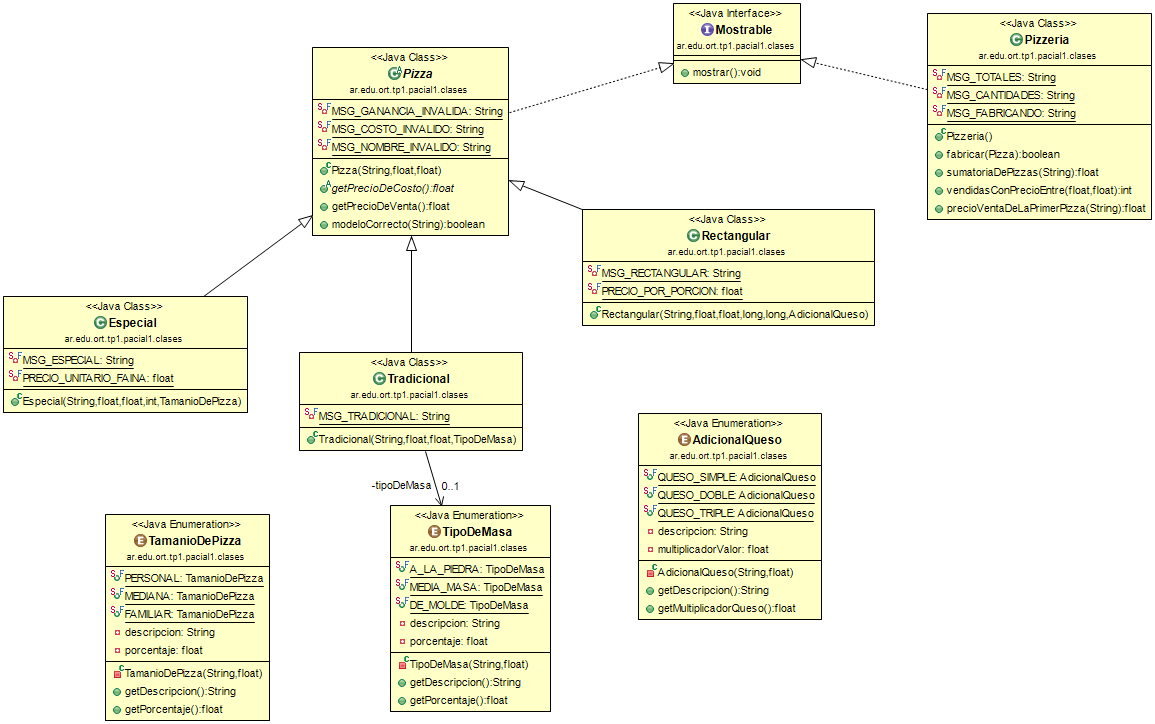
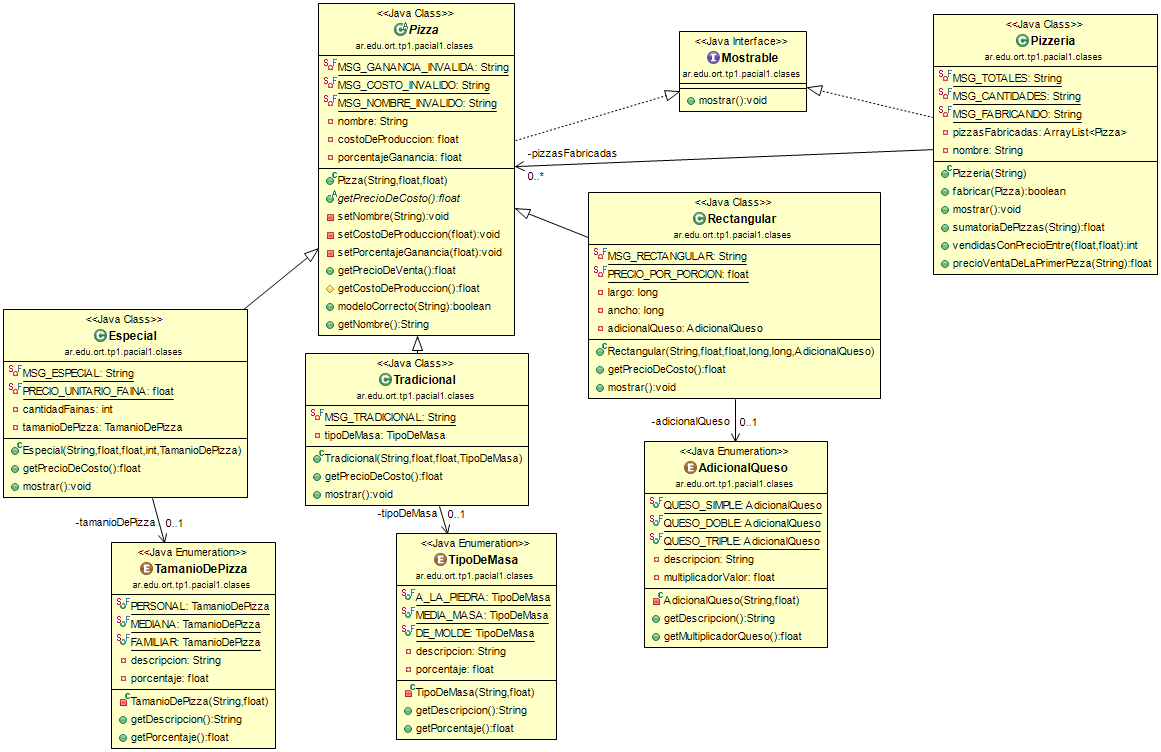
Resuelto (revisar lo charlado en clase)

Changed region(s): [[0.2494, 0.0, 0.9974, 1.0], [0.0, 0.395, 0.2494, 1.0], [0.561, 0.0, 0.7169, 0.1519]]

diff --git a/src/ar/edu/ort/tp1/pacial1/clases/Pizzeria.java b/src/ar/edu/ort/tp1/pacial1/clases/Pizzeria.java
@@ -8,12 +8,51 @@ public class Pizzeria implements Mostrable {
 	private static final String MSG_CANTIDADES = "Se han fabricado: %d Tradicionales, %d Especiales y %d Rectangulares\n";
 	private static final String MSG_FABRICANDO = "Fabricando la Pizza: ";
 	//TODO A completar
+	private ArrayList<Pizza> 	pizzasFabricadas;
+	private String 				nombre;
+
 	
+	public Pizzeria(String nombre) {
+		//TODO A completar
+		this.nombre 			= nombre;
+		this.pizzasFabricadas 	= new ArrayList<Pizza>();
+	}
 
 	public boolean fabricar(Pizza m) {
 		//TODO A completar
+		boolean retorno = false;
+		if (m != null) {
+			System.out.print(MSG_FABRICANDO);
+			m.mostrar();
+			retorno = this.pizzasFabricadas.add(m);
+		}
+		return retorno;
 	}
 
+	@Override
+	public void mostrar() {
+		//TODO A completar
+		int 	cantEspecial 	= 0;
+		int 	cantRectangular 		= 0;
+		int 	cantTradicional 		= 0;
+		float 	ventasTotales = 0;		
+		
+
+		System.out.println("Pizzeria: " + nombre);
+		for (Pizza pizza : pizzasFabricadas) {
+			if (pizza instanceof Tradicional) {
+				cantTradicional++;
+			} else if (pizza instanceof Especial) {
+				cantEspecial++;
+			} else if (pizza instanceof Rectangular) {
+				cantRectangular++;
+			}
+			ventasTotales += pizza.getPrecioDeVenta();
+		}
+
+		System.out.printf(MSG_CANTIDADES, cantTradicional, cantEspecial, cantRectangular);
+		System.out.printf(MSG_TOTALES, ventasTotales);
+	}
 
 	/**
 	 * Retorna la sumatoria de los precios de Venta de nombre de la pizza enviado por parametro. 
@@ -23,6 +62,14 @@ public class Pizzeria implements Mostrable {
 	public float sumatoriaDePizzas(String nombre) {
 		//TODO A completar
 		float 	total = 0;
+		Pizza	pizzaAuxiliar;
+		
+		for (int i = 0; i < this.pizzasFabricadas.size(); i++) {
+			pizzaAuxiliar = this.pizzasFabricadas.get(i);
+			if (pizzaAuxiliar.getNombre().equalsIgnoreCase(nombre)) {
+				total		+= pizzaAuxiliar.getPrecioDeVenta();
+			}
+		}
 		
 		return total;
 	}
@@ -38,6 +85,16 @@ public class Pizzeria implements Mostrable {
 	public int vendidasConPrecioEntre(float precioInferior, float precioSuperior) {
 		//TODO A completar
 		int 	cantidad = 0;
+		Pizza	pizzaAuxiliar;
+		
+		for (int i = 0; i < this.pizzasFabricadas.size(); i++) {
+			pizzaAuxiliar = this.pizzasFabricadas.get(i);
+			if ((pizzaAuxiliar.getPrecioDeVenta() >= precioInferior)  && 
+				(pizzaAuxiliar.getPrecioDeVenta() <= precioSuperior)){
+				cantidad++;
+			}
+		}
+		
 		return cantidad;
 	}
 	
@@ -49,7 +106,18 @@ public class Pizzeria implements Mostrable {
 	 */
 	public float precioVentaDeLaPrimerPizza(String nombre) {
 		//TODO A completar
+		boolean encontrada = false;
 		float   precio 		= 0;
+		int 	idx 		= 0;
+		Pizza	pizzaAuxiliar;
+		while (!encontrada && idx < this.pizzasFabricadas.size()) {
+			pizzaAuxiliar = this.pizzasFabricadas.get(idx);
+			if (pizzaAuxiliar.getNombre().equalsIgnoreCase(nombre)) {
+				encontrada 	= true;
+				precio		= pizzaAuxiliar.getPrecioDeVenta();
+			}
+			idx++;
+		}
 		return precio;
 	}
 }

diff --git a/src/ar/edu/ort/tp1/pacial1/clases/Rectangular.java b/src/ar/edu/ort/tp1/pacial1/clases/Rectangular.java
@@ -5,13 +5,40 @@ public class Rectangular extends Pizza {
 	private static final String MSG_RECTANGULAR = "%-12s - %-15s - Precio de Venta: $%8.2f - %d porciones - %s\n";
 	private static final float PRECIO_POR_PORCION = 45f;
 	//TODO A completar
+	private long largo;
+	private long ancho;
+	private AdicionalQueso adicionalQueso;
 
 	//TODO A completar
 	public Rectangular(String nombre, float costoBase, float porcentajeGanancia, long largo, long ancho, AdicionalQueso adicionalQueso) {
+		super(nombre, costoBase, porcentajeGanancia);
+		this.largo = largo;
+		this.ancho = ancho;
+		this.adicionalQueso = adicionalQueso;
 	}
 
 	//TODO A completar
 	// Costo de produccion + Precio de las porciones (ancho y largo) y todo eso 
 	//	se multiplica por el adicional del queso.
 	//
+	@Override
+	public float getPrecioDeCosto() {
+		float costo;
+		costo = (getCostoDeProduccion() + (PRECIO_POR_PORCION * this.largo * this.ancho));
+		costo = costo * adicionalQueso.getMultiplicadorQueso();
+		return costo;
+	}
+	
+	@Override
+	public void mostrar() {
+		//TODO A completar
+		System.out.printf(MSG_RECTANGULAR, 
+				getClass().getSimpleName(),
+				this.getNombre(),
+				getPrecioDeVenta(),
+				this.largo * this.ancho,
+				adicionalQueso.getDescripcion());
+		
+	}
+
 }

diff --git a/src/ar/edu/ort/tp1/pacial1/Parcial1.java b/src/ar/edu/ort/tp1/pacial1/Parcial1.java
@@ -49,16 +49,32 @@ public class Parcial1 {
 	private static void fabricarTradicional(Pizzeria laPizzeria, String nombre, float costoBase,
 			float porcentajeGanancia, TipoDeMasa tipoDeMasa) {
 		//TODO Completar
+		try {
+			laPizzeria.fabricar(new Tradicional(nombre, costoBase, porcentajeGanancia, tipoDeMasa));
+		} catch (IllegalArgumentException e) {
+			System.out.printf(MSG_ERROR, e.getMessage());
+		}
+
 	}
 
 	private static void fabricarEspecial(Pizzeria laPizzeria, String nombre, float costoBase, float porcentajeGanancia,
 			int cantidadFainas, TamanioDePizza tamanioDePizza) {
 		//TODO Completar
+		try {
+			laPizzeria.fabricar(new Especial(nombre, costoBase, porcentajeGanancia, cantidadFainas, tamanioDePizza));
+		} catch (IllegalArgumentException e) {
+			System.out.printf(MSG_ERROR, e.getMessage());
+		}
 	}
 
 	private static void fabricarRectangular(Pizzeria laPizzeria, String nombre, float costoBase,
 			float porcentajeGanancia, long largo, long ancho, AdicionalQueso adicionalQueso) {
 		//TODO Completar
+		try {
+			laPizzeria.fabricar(new Rectangular(nombre, costoBase, porcentajeGanancia, largo, ancho, adicionalQueso));
+		} catch (IllegalArgumentException e) {
+			System.out.printf(MSG_ERROR, e.getMessage());
+		}
 	}
 
 }

diff --git a/src/ar/edu/ort/tp1/pacial1/clases/Tradicional.java b/src/ar/edu/ort/tp1/pacial1/clases/Tradicional.java
@@ -7,9 +7,27 @@ public class Tradicional extends Pizza {
 	
 	//TODO A completar
 	public Tradicional(String nombre, float costoBase, float porcentajeGanancia, TipoDeMasa tipoDeMasa) {
+		super(nombre, costoBase, porcentajeGanancia);
+		this.tipoDeMasa = tipoDeMasa;
 	}
 
 	//TODO A completar
 	// Costo de produccion multiplicado por el porcentaje del tipo de masa.
 	//
+	@Override
+	public float getPrecioDeCosto() {
+		return getCostoDeProduccion() * tipoDeMasa.getPorcentaje();
+	}
+	
+	@Override
+	public void mostrar() {
+		//TODO A completar
+		System.out.printf(MSG_TRADICIONAL, 
+				getClass().getSimpleName(),
+				this.getNombre(),
+				getPrecioDeVenta(),
+				tipoDeMasa.getDescripcion());
+		
+	}
+
 }
